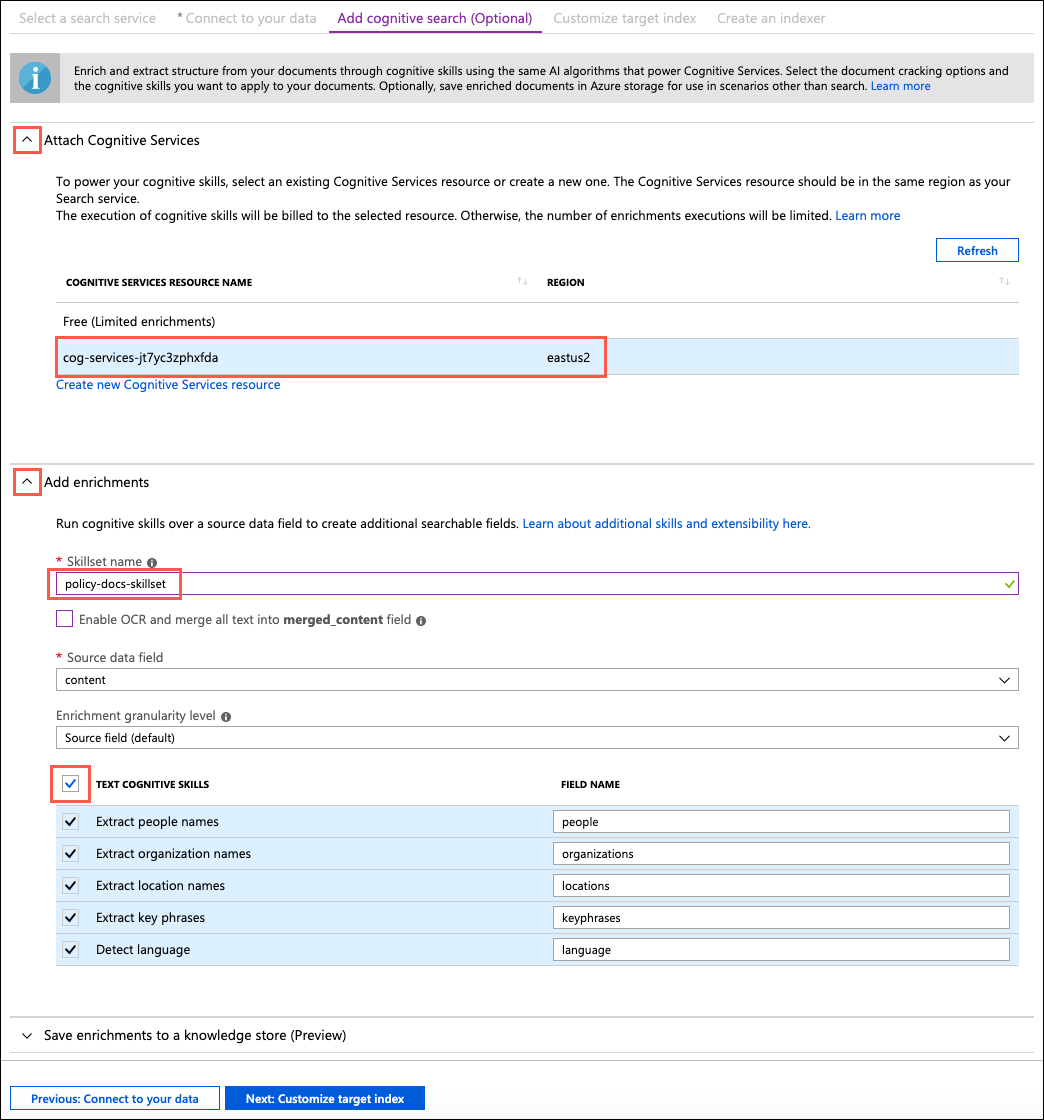
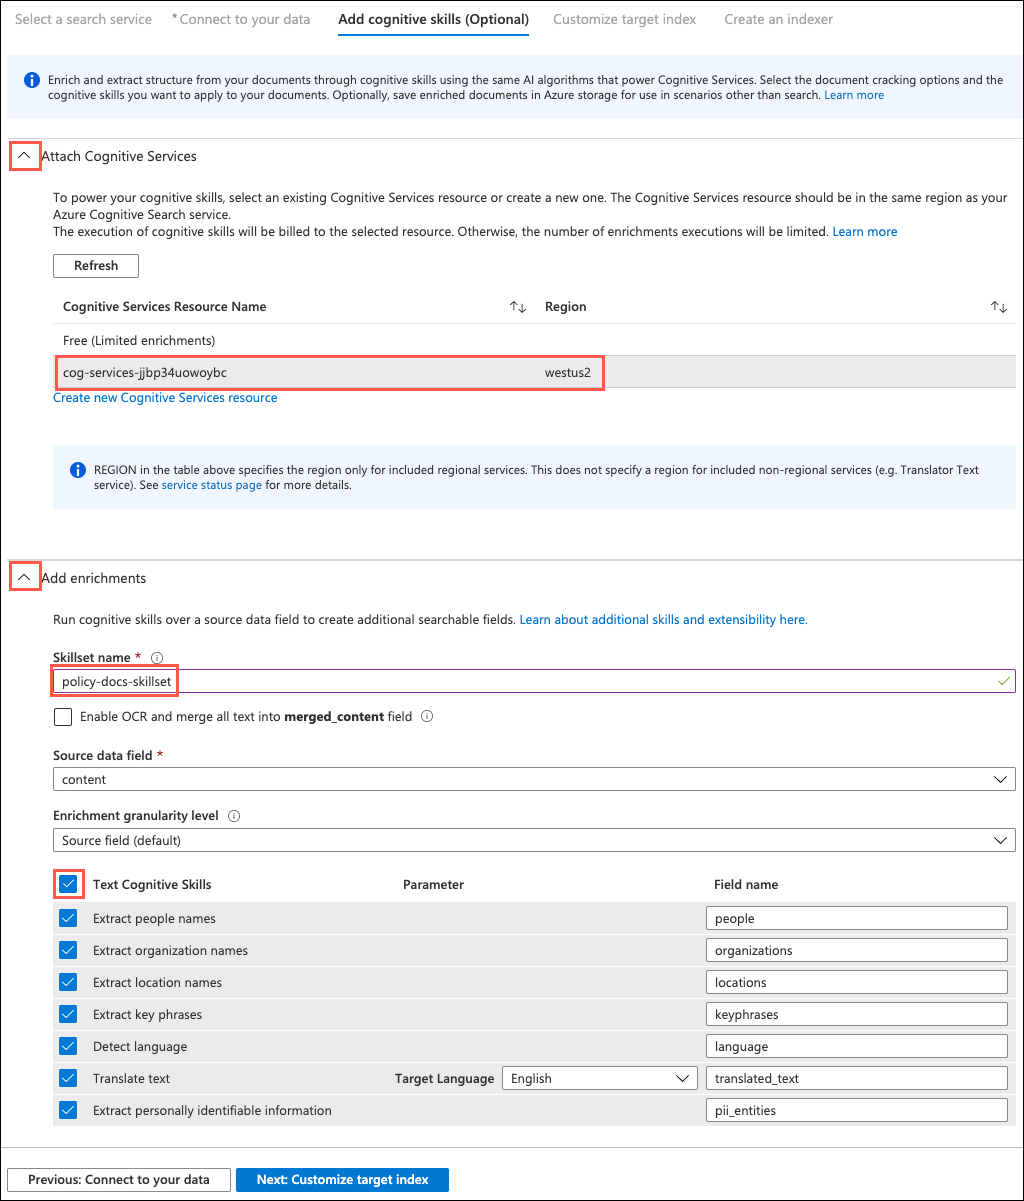
HOL Exercise 8 updates

diff --git a/Hands-on lab/HOL step-by-step - App modernization.md b/Hands-on lab/HOL step-by-step - App modernization.md
@@ -1625,9 +1625,9 @@ Contoso has requested the ability to perform full-text searching on policy docum
 
    ![On the Connect to your data tab, the values specified above are entered in to the form.](media/add-azure-search-connect-to-your-data.png "Add Azure Search")
 
-5. Select **Next: Add cognitive search (Optional)**.
+5. Select **Next: Add cognitive skills (Optional)**.
 
-6. On the **Add cognitive search** tab, set the following configuration:
+6. On the **Add cognitive skills** tab, set the following configuration:
 
    - Expand Attach Cognitive Services, and select your Cognitive Services account.
    - Expand Add enrichments:
